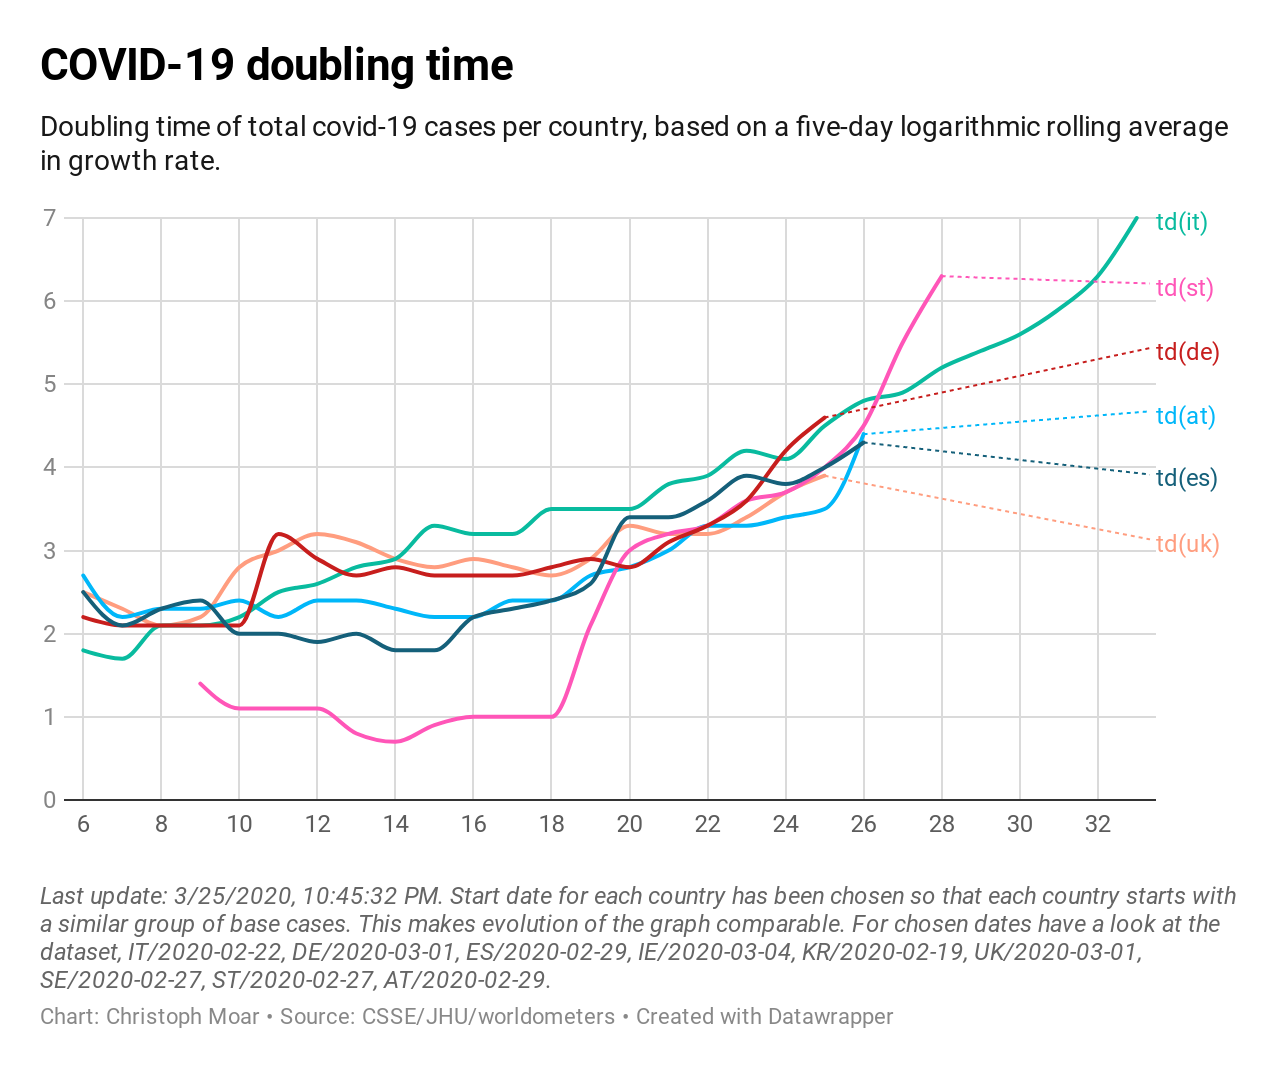
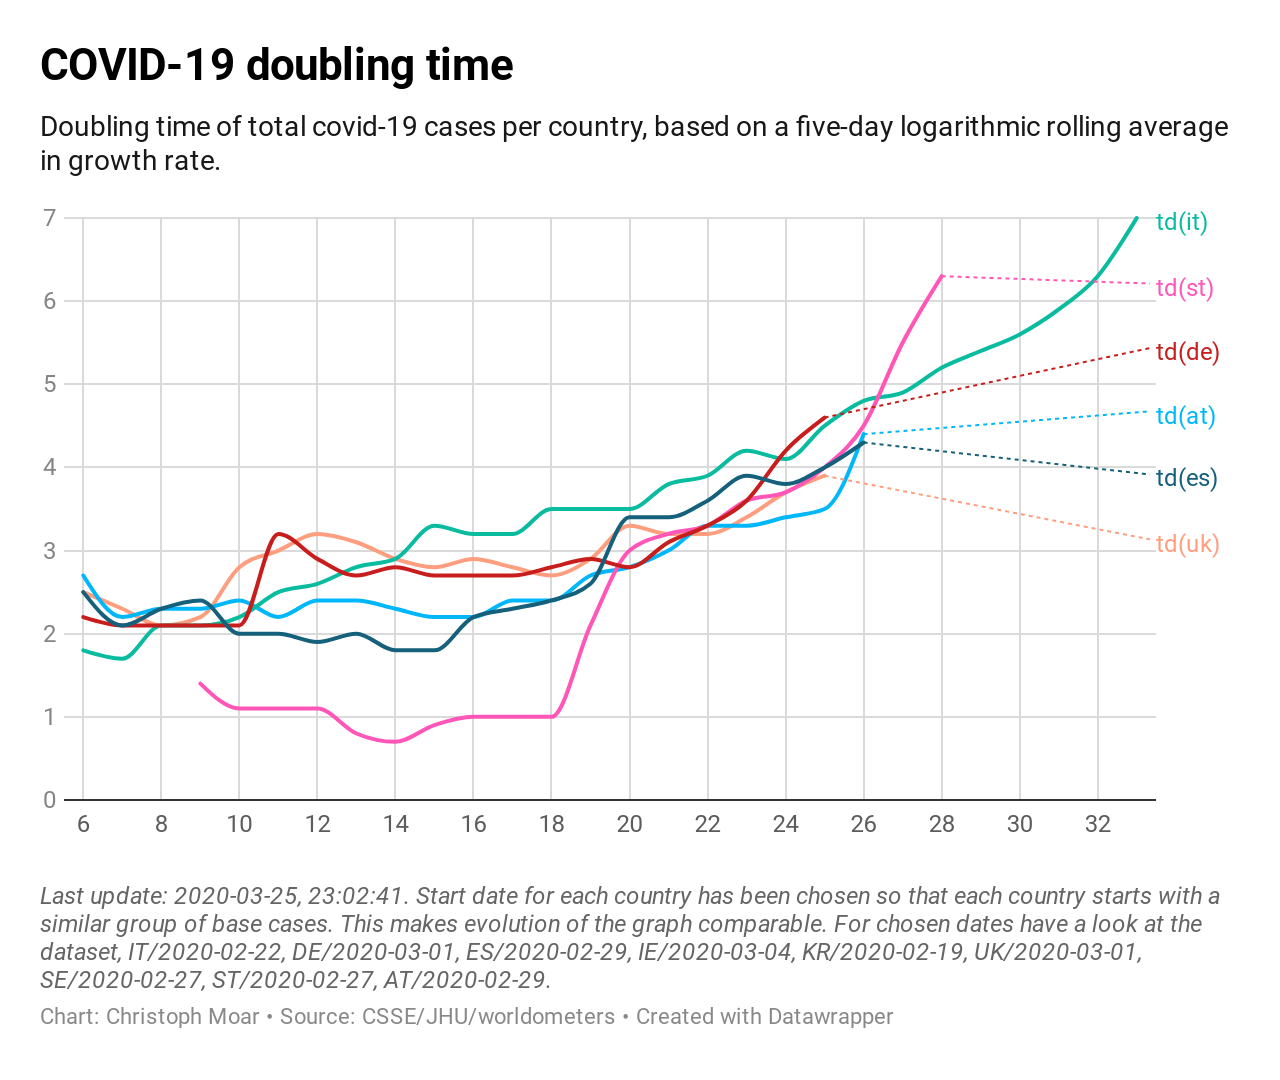
timestamp formatting, new data

Changed region(s): [[0.0312, 0.825, 0.9688, 0.8861]]

diff --git a/bin/update.js b/bin/update.js
@@ -23,6 +23,17 @@ async function update(url, filename) {
 }
 
 async function timestamp(url, text) {
+  const timeStamp = new Date().toLocaleString('de-DE', {
+        timeZone: 'Europe/Berlin',
+        hour12: false,
+        year: "numeric",
+        month: "2-digit",
+        day: "2-digit",
+        hour: "2-digit",
+        minute: "2-digit",
+        second: "2-digit",
+    }).replace(/(\d+).(\d+).(\d+),\s(\d+):(\d+):(\d+)/, "$3-$1-$2, $4:$5:$6");
+  
   const dataResponse = await request(
     url, {
       method: 'PATCH',
@@ -33,7 +44,7 @@ async function timestamp(url, text) {
       body: {
         metadata: {
           annotate: {
-            notes: `Last update: ${new Date().toLocaleString()}. ${text}`
+            notes: `Last update: ${timeStamp}. ${text}`
           }
         }
       }
